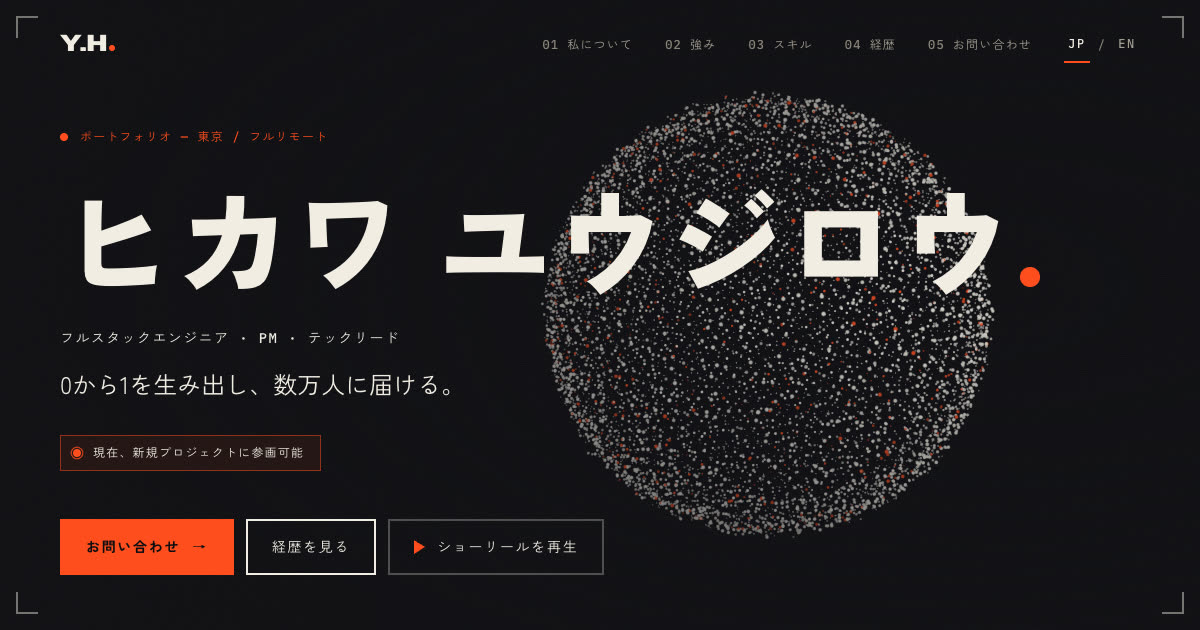
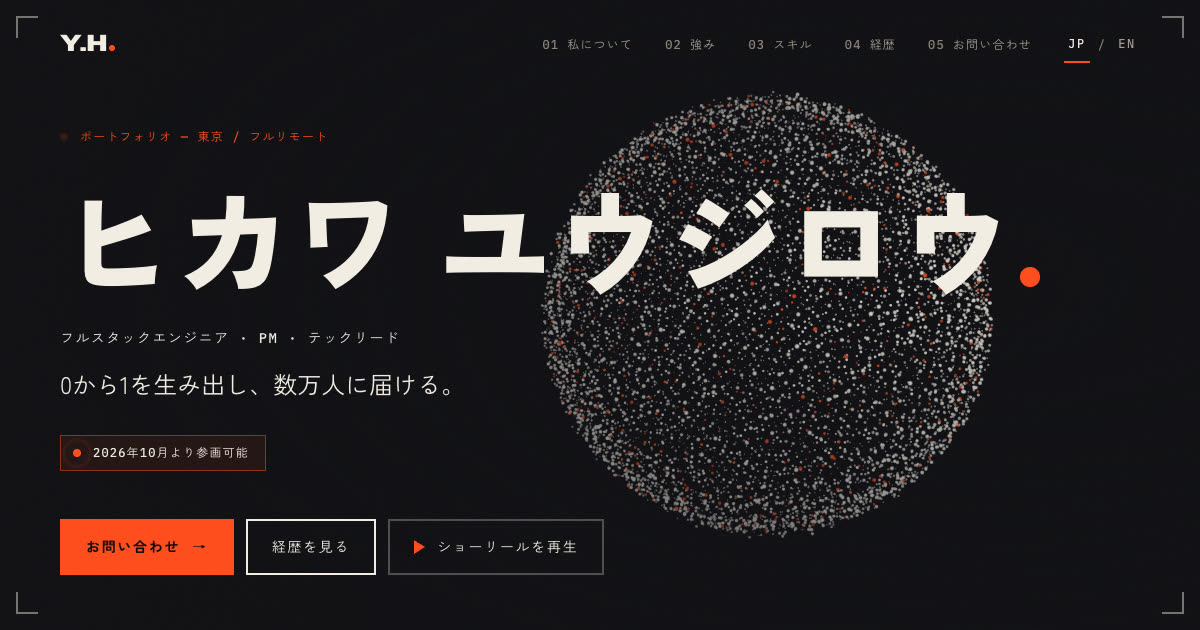
Say availability starts October 2026
The hero line was "Available now"; Chris is available from October 2026.
Contact text matches (the same fix as the small availability PR), and
the link-preview image is regenerated with the new hero line.

Claude-Session: https://claude.ai/code/session_011iSfxhtkGddCJ9ezamm9UF

Changed region(s): [[0.4317, 0.1508, 0.8325, 0.8746], [0.0617, 0.6937, 0.2467, 0.754]]

diff --git a/assets/js/i18n.js b/assets/js/i18n.js
@@ -17,7 +17,7 @@ const I18N = {
     "hero.cta.work": "View Experience",
     "hero.cta.contact": "Get in Touch",
     "hero.cta.reel": "Play showreel",
-    "hero.available": "Available now for new projects",
+    "hero.available": "Available from October 2026",
     "contact.copy": "Copy",
     "contact.copied": "Copied",
     "contact.copyFail": "Select to copy",
@@ -118,7 +118,7 @@ const I18N = {
 
     "contact.title": "Contact",
     "contact.line": "Let's build something.",
-    "contact.text": "Open to full-remote engagements from September 2026 — from a single feature to a full product build.",
+    "contact.text": "Open to full-remote engagements from October 2026 — from a single feature to a full product build.",
     "contact.resume": "Skill Sheet (PDF)",
     "contact.matrix": "Skill Match Sheet (◯△×, Japanese)",
     "meta.description": "Portfolio of Yujiro Hikawa — full-stack engineer, PM and tech lead. 0→1 products, apps used by tens of thousands.",
@@ -138,7 +138,7 @@ const I18N = {
     "hero.cta.work": "経歴を見る",
     "hero.cta.contact": "お問い合わせ",
     "hero.cta.reel": "ショーリールを再生",
-    "hero.available": "現在、新規プロジェクトに参画可能",
+    "hero.available": "2026年10月より参画可能",
     "contact.copy": "コピー",
     "contact.copied": "コピーしました",
     "contact.copyFail": "選択してコピー",
@@ -239,7 +239,7 @@ const I18N = {
 
     "contact.title": "お問い合わせ",
     "contact.line": "一緒に作りましょう。",
-    "contact.text": "2026年9月よりフルリモートで参画可能です。一機能からプロダクト全体の開発まで、お気軽にご相談ください。",
+    "contact.text": "2026年10月よりフルリモートで参画可能です。一機能からプロダクト全体の開発まで、お気軽にご相談ください。",
     "contact.resume": "スキルシート (PDF)",
     "contact.matrix": "スキルマッチ早見表（◯△×）",
     "meta.description": "ヒカワ ユウジロウのポートフォリオ — フルスタックエンジニア / PM / テックリード。0→1プロダクト、数万人規模のアプリ開発。",
